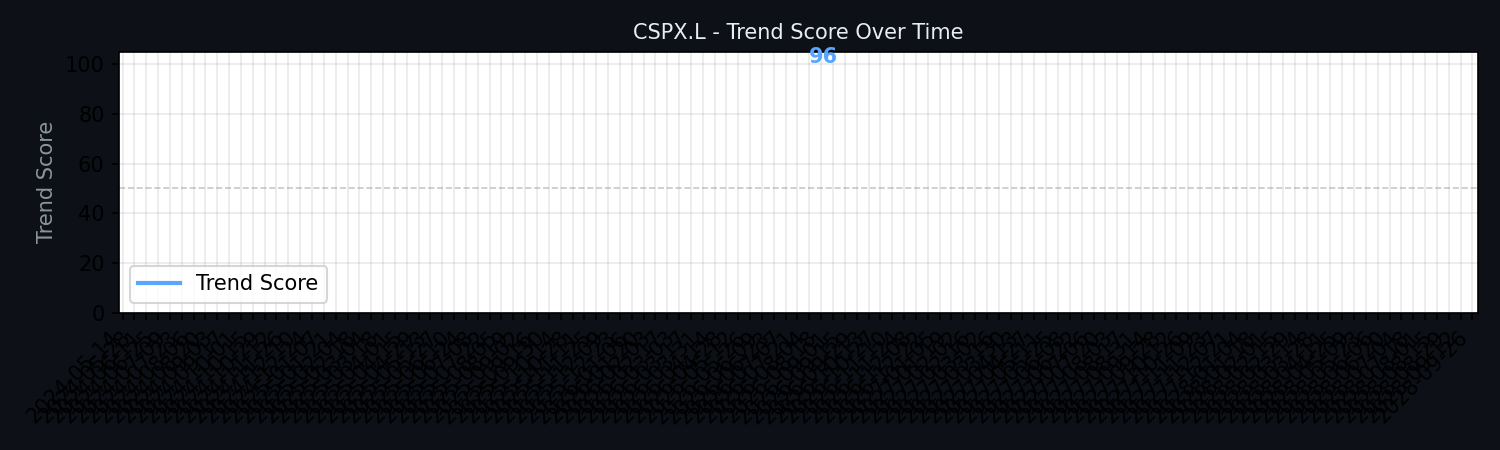
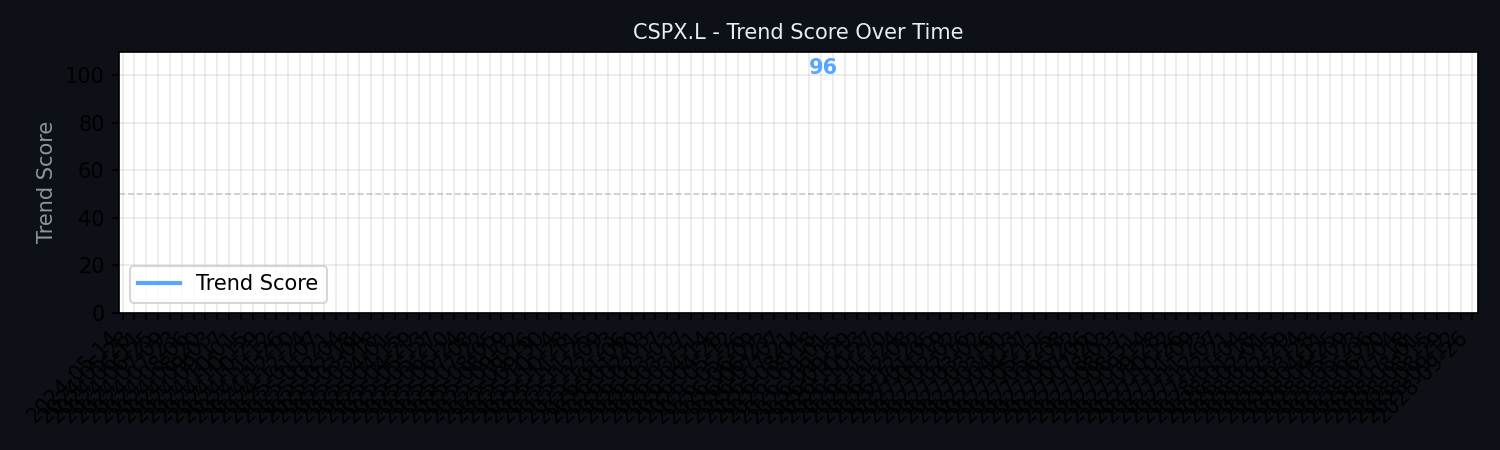
chore: update dashboard snapshot

Changed region(s): [[0.092, 0.4044, 0.9813, 0.4356], [0.5213, 0.0933, 0.5827, 0.1556]]

diff --git a/docs/index.html b/docs/index.html
@@ -62,12 +62,12 @@
 </head>
 <body>
     <h1>📊 Quant Trade Bot</h1>
-    <div class="subtitle">Daily snapshot · 2026-07-22 20:10 (GMT+8)</div>
+    <div class="subtitle">Daily snapshot · 2026-07-22 20:16 (GMT+8)</div>
 
     <div class="card">
         <h2>CSPX (iShares Core S&P 500 UCITS ETF)</h2>
         <img src="trend_CSPX.L.png" alt="Trend Score History" style="width:100%; max-width:900px; border-radius:8px; margin-bottom:20px; border:1px solid #30363d;">
-        <div class="row"><span class="label">Latest Close</span><span class="value">$805.57</span></div>
+        <div class="row"><span class="label">Latest Close</span><span class="value">$805.82</span></div>
         <div class="row"><span class="label">Trend Score</span><span class="value">96/100</span></div>
         <div class="row"><span class="label">Momentum Score</span><span class="value">40/100</span></div>
         <div class="row"><span class="label">Historical Match</span><span class="value">262 occurrences</span></div>
@@ -87,7 +87,7 @@
     </div>
 
     <div class="footer">
-        Updated: 2026-07-22 20:10 (GMT+8) · <a href="https://t.me/ETF_Trend_Monitor" target="_blank">Telegram Channel</a> · <a href="https://github.com/kzyxx11/quant_trade_bot" target="_blank">GitHub</a>
+        Updated: 2026-07-22 20:16 (GMT+8) · <a href="https://t.me/ETF_Trend_Monitor" target="_blank">Telegram Channel</a> · <a href="https://github.com/kzyxx11/quant_trade_bot" target="_blank">GitHub</a>
     </div>
 </body>
 </html>